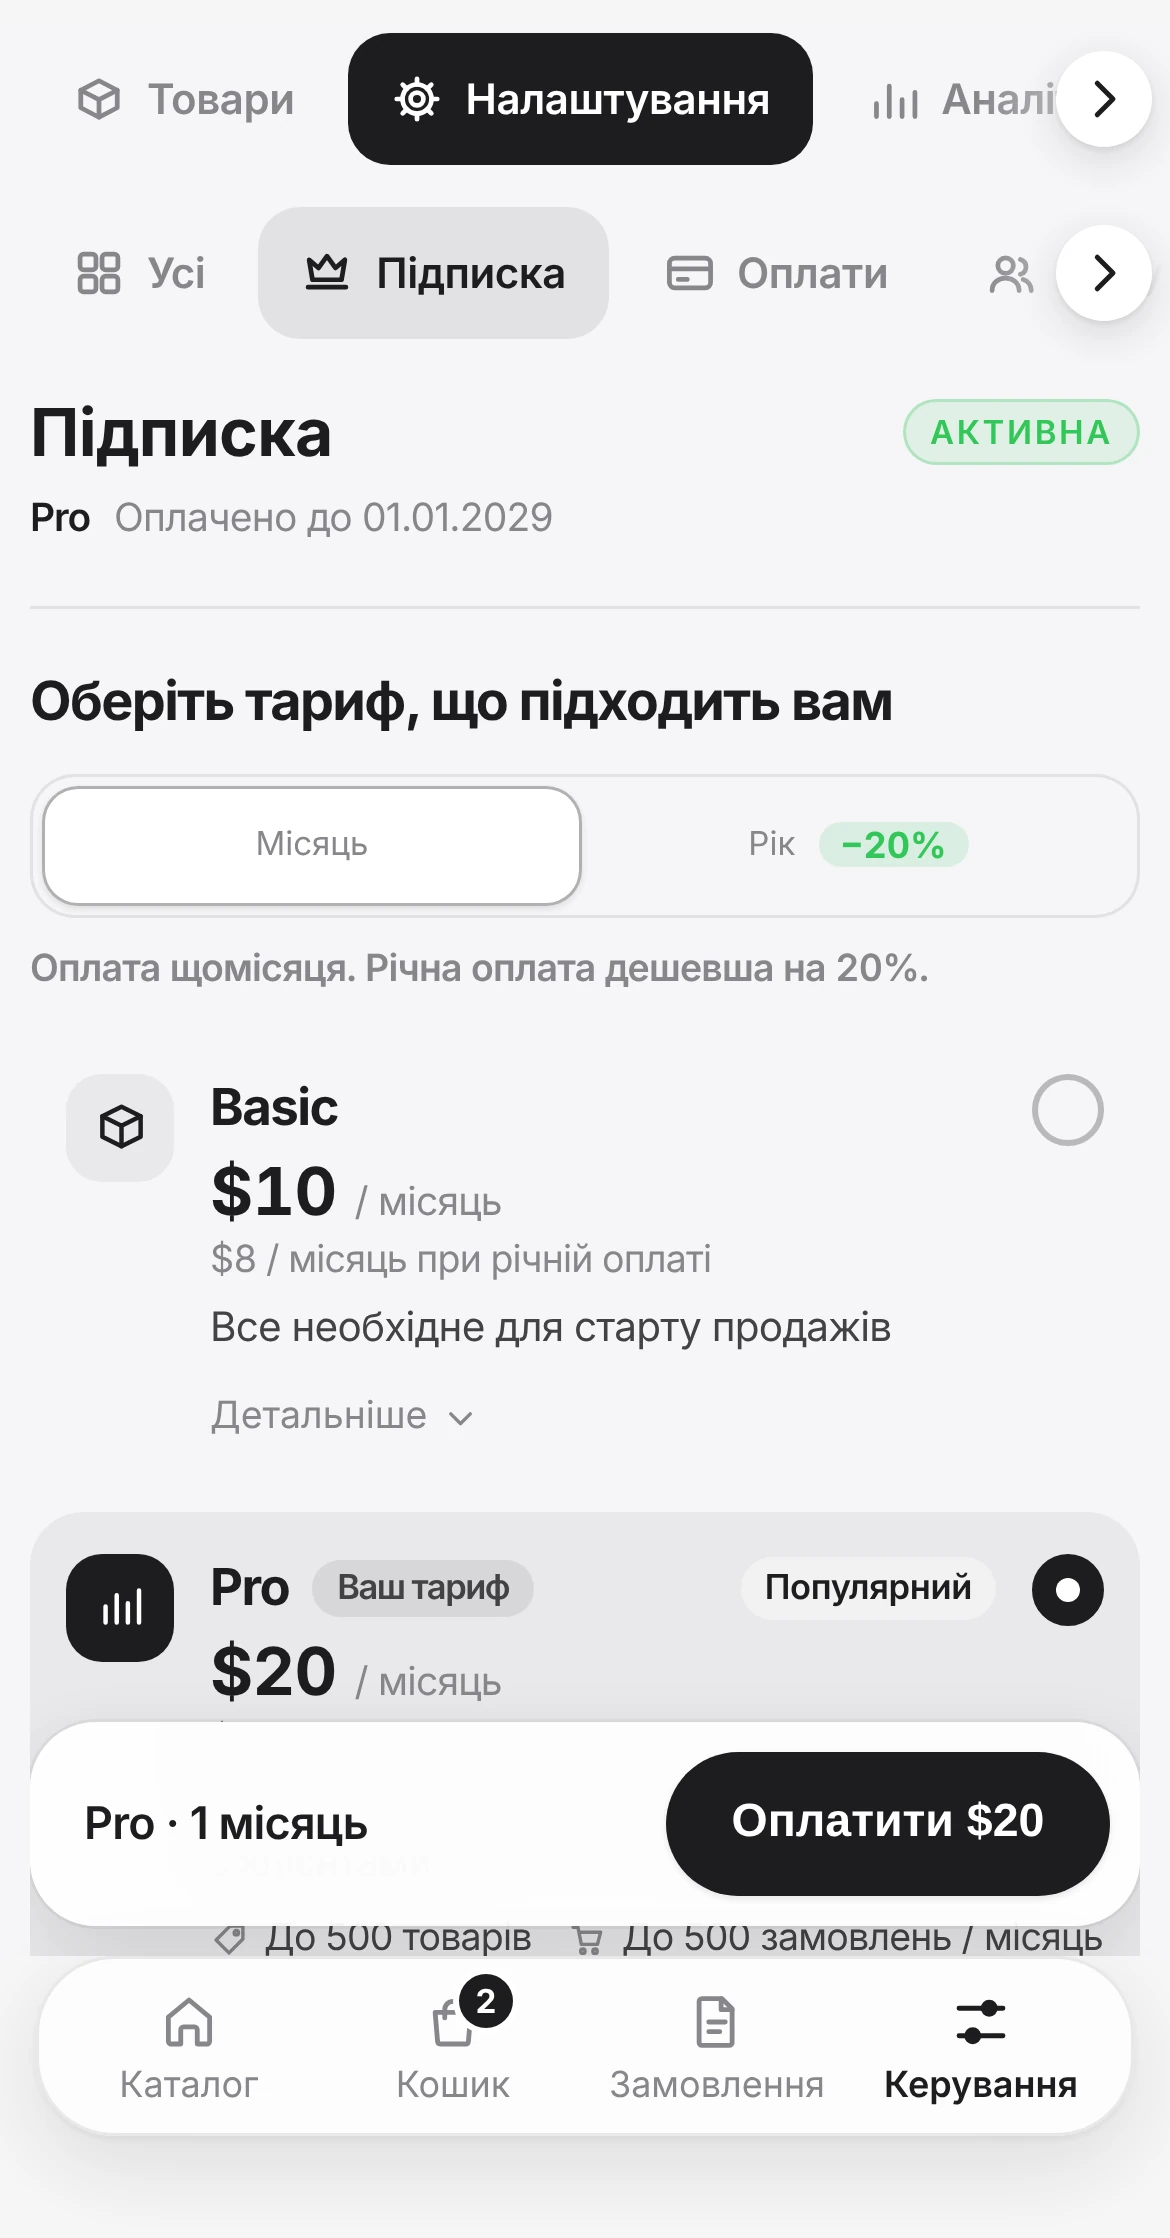
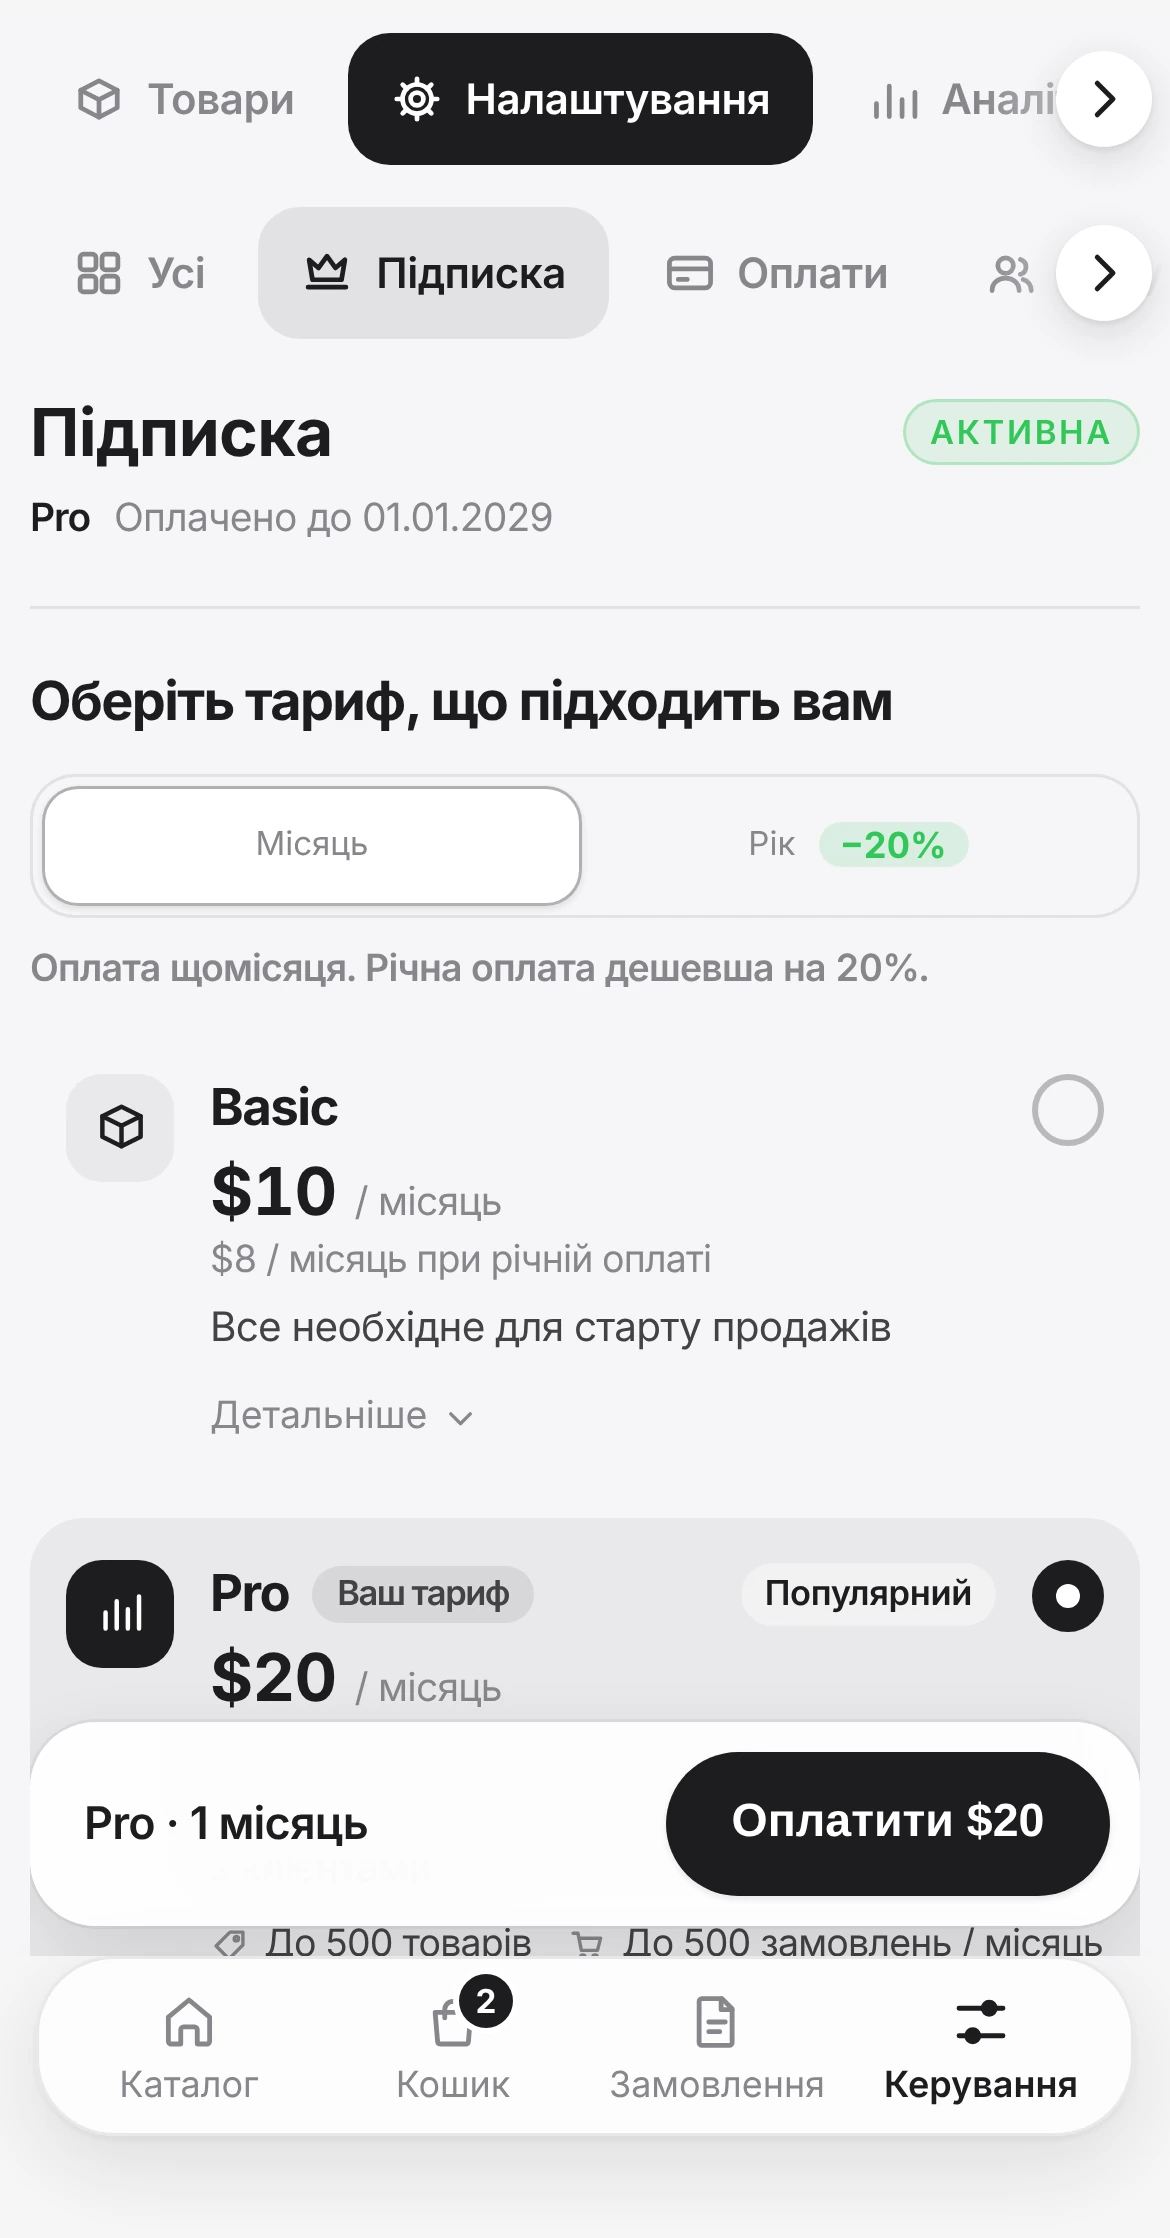
Підписка: «Детальніше» в самому тарифі, без тизера шаблонів (#23)
* Shots: product editor in the unified style

Claude-Session: https://claude.ai/code/session_01Tv2wQKJRwy2x9o7FNnTaLJ

* Замовлення v3: список, екран замовлення, ручна ТТН, скасування

- owner-guide: «Список», «Екран замовлення», «Дії», «ТТН, створена в
  застосунку Нової пошти»; фільтр «Очікують оплати»
- nova-poshta, launch: без ⓘ, `Наступний крок`, внесення номера ТТН
- нові знімки замовлень зі стандартними товарами
- platform-facts: Замовлення (WebApp, v3)

Claude-Session: https://claude.ai/code/session_01Tv2wQKJRwy2x9o7FNnTaLJ

* Замовлення: без кнопки «Подзвонити»

Claude-Session: https://claude.ai/code/session_01Tv2wQKJRwy2x9o7FNnTaLJ

* Payments: what the buyer sees on the new checkout

Claude-Session: https://claude.ai/code/session_01Tv2wQKJRwy2x9o7FNnTaLJ

* Docs: buyer checkout screenshots, refreshed shots after the checkout and motion rounds

- New shots: checkout-form, checkout-delivery, checkout-payment, checkout-details
  (standard products with the question mark), docshots patch extended.
- payments.md, launch.md, owner-guide.md show what the buyer sees.
- All 43 shots regenerated; platform-facts and the shots README updated.

Claude-Session: https://claude.ai/code/session_01Tv2wQKJRwy2x9o7FNnTaLJ

* Керування: вкладки гортаються свайпом, ряд ховається при прокрутці; нові знімки

Claude-Session: https://claude.ai/code/session_01Tv2wQKJRwy2x9o7FNnTaLJ

* Керування: стрілки на краях ряду, гортання мишею; оновлені знімки
[…]

diff --git a/docs/_internal/platform-facts.md b/docs/_internal/platform-facts.md
@@ -413,4 +413,4 @@ refs для міста і відділення.
 - Перегляд: справжній магазин у рамці (`Як побачать покупці`, `Картка` / `Сторінка`), незбережений товар першим у сітці; дотик по картці відкриває сторінку.
 - `Видалити товар` / `Видалити`: м'яке видалення (товар зникає з каталогу й списку, замовлення лишаються).
 
-**Підписка v2 (2026-11-15, PR #44).** Екран `Підписка`: заголовок і статус, під ним одним рядком тариф і «Оплачено до…»; перемикач `Місяць` / `Рік` (−20%); тарифи списком (рядок цілком вибирає тариф, радіо праворуч, у поточного тарифу мітка «Ваш тариф»; цифри тарифу видно лише у вибраного, решта — через `Детальніше`); закріплена панель оплати: «<Тариф> · <період>», економія для річного, кнопка `Оплатити $N`. Нижче блок `Більше про підписку`: інструкція, `Документи та умови`, `Історія платежів`, `Доступ до магазину`, тизер `Готові шаблони магазину`, `Маєте питання?`.
+**Підписка v2 (2026-11-15, PR #44).** Екран `Підписка`: заголовок і статус, під ним одним рядком тариф і «Оплачено до…»; перемикач `Місяць` / `Рік` (−20%); тарифи списком (рядок цілком вибирає тариф, радіо праворуч, у поточного тарифу мітка «Ваш тариф»; цифри тарифу видно лише у вибраного, решта — через `Детальніше`); закріплена панель оплати: «<Тариф> · <період>», економія для річного, кнопка `Оплатити $N`. Нижче блок `Більше про підписку`: інструкція, `Документи та умови`, `Історія платежів`, `Доступ до магазину`, `Маєте питання?`. Раунд 2 (PR #45): `Детальніше` відкриває список усередині натиснутого тарифу (заголовок «Усе з <попередній>, плюс:» або «Що входить:», дві колонки без рамки, короткі факти ховаються); тизер «Готові шаблони магазину» прибрано.
